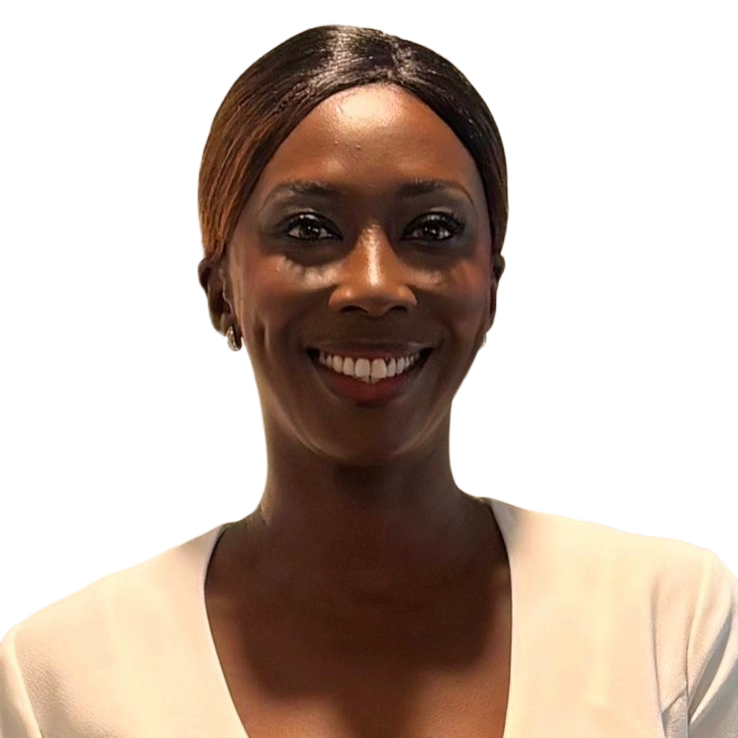
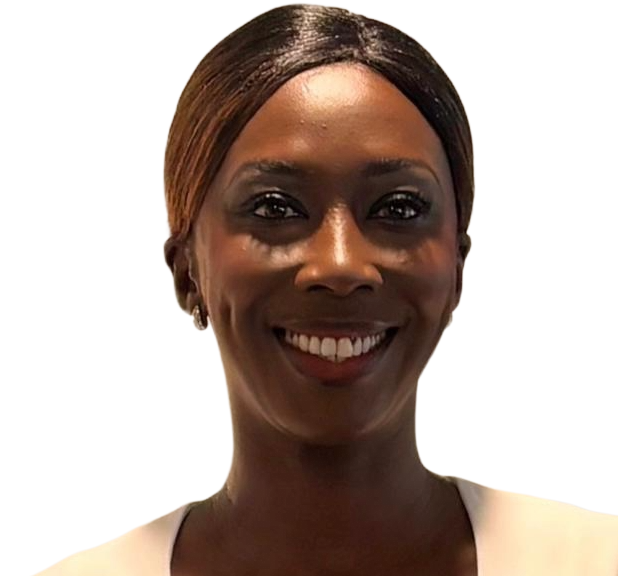
rework NA PP

diff --git a/src/components/meetOurTeam/meetOurTeam.scss b/src/components/meetOurTeam/meetOurTeam.scss
@@ -93,7 +93,7 @@
 }
 
 #meetOurTeamComponent .nellyImage {
-  object-position: 0px 10px;
+  object-position: -40px 10px;
   width: 150px;
   height: 150px;
   margin-top: -25px;
@@ -240,6 +240,7 @@
     width: 130px;
     height: 130px;
     margin-top: -25px;
+    object-position: -30px 10px;
   }
 
   #meetOurTeamComponent .nicolasImage {
